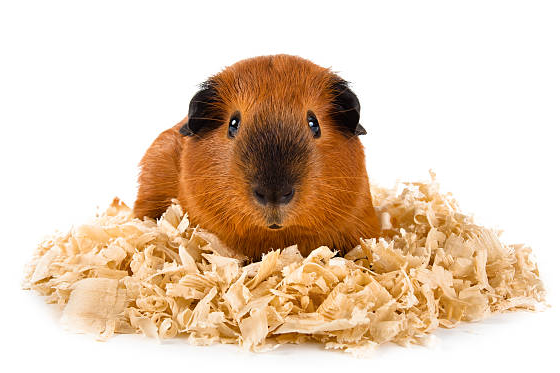
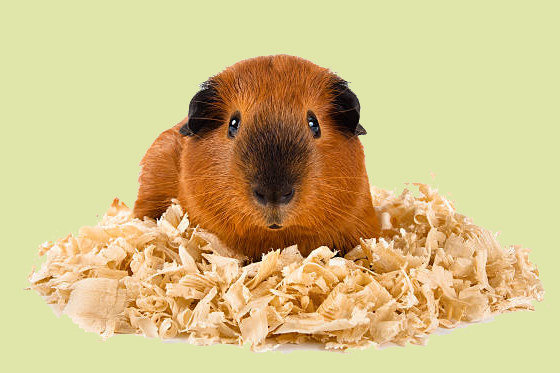
change color scheme

diff --git a/index.html b/index.html
@@ -83,7 +83,7 @@
                                     </div>
                                     <div class="banner_slide swiper-slide">
                                         <img src="./images/Slider/skip1.png" class="slide_img"></img>
-                                        <p class="device_name">Паливна тріска</p>
+                                        <p class="device_name">Технологічна тріска</p>
                                         <div class="slider_bottom">
                                             <img class="slide_bottom" src="./images/bg.slideshow.png" alt="">
                                         </div>
@@ -111,7 +111,7 @@
                                     </div>
                                     <div class="banner_slide swiper-slide">
                                         <img src="./images/Slider/skip3.png" class="slide_img"></img>
-                                        <p class="device_name">Паливна тріска</p>
+                                        <p class="device_name">Тирса</p>
                                         <div class="slider_bottom">
                                             <img class="slide_bottom" src="./images/bg.slideshow.png" alt="">
                                         </div>
@@ -140,7 +140,7 @@
                                     </div>
                                     <div class="slide swiper-slide">
                                         <img src="./images/Slider/skip5.png" class="slide_img"></img>
-                                        <p class="device_name">Паливна тріска</p>
+                                        <p class="device_name">Паливні брикети</p>
                                         <div class="slider_bottom">
                                             <img class="slide_bottom" src="./images/bg.slideshow.png" alt="">
                                         </div>
@@ -154,7 +154,7 @@
                                     </div>
                                     <div class="banner_slide swiper-slide">
                                         <img src="./images/Slider/skip3.png" class="slide_img"></img>
-                                        <p class="device_name">Паливна тріска</p>
+                                        <p class="device_name">Тирса</p>
                                         <div class="slider_bottom">
                                             <img class="slide_bottom" src="./images/bg.slideshow.png" alt="">
                                         </div>
@@ -182,7 +182,7 @@
                                     </div>
                                     <div class="banner_slide swiper-slide">
                                         <img src="./images/Slider/skip3.png" class="slide_img"></img>
-                                        <p class="device_name">Паливна тріска</p>
+                                        <p class="device_name">Тирса</p>
                                         <div class="slider_bottom">
                                             <img class="slide_bottom" src="./images/bg.slideshow.png" alt="">
                                         </div>
@@ -237,6 +237,7 @@
                                     <li class="info_menu_item"><a href="#">Автоматичний пристрій для різки
                                             брикетів</a></li>
                                     <li class="info_menu_item"><a href="#">Ланцюгові столи та вібростоли</a></li>
+                                    <li class="info_menu_item"><a href="#">Транспортери і конвейери</a></li>
                                     <!-- <li class="banner_menu_item"><a href="#">Market Research</a></li>
                                     <li class="banner_menu_item"><a href="#">Custom Training</a></li> -->
                                 </ul>

diff --git a/style.css b/style.css
@@ -12,7 +12,7 @@ body {
     color: #121212;
     margin: 0;
     line-height: 16px;
-    background-image: url('./images/screen2.jpg');
+    background-image: url('./images/screen7.jpg');
     background-repeat: no-repeat;
     background-attachment: fixed;
     background-position: center center;
@@ -21,9 +21,9 @@ body {
 
 /*---------------------header--------------------------*/
 
-.wrapper_inner {
-    background-image: url('./images/bg.overlay.png');
-}
+/*.wrapper_inner {*/
+/*    background-image: url('./images/bg.overlay.png');*/
+/*}*/
 
 .container {
     width: 1132px;
@@ -73,7 +73,8 @@ body {
 }
 
 .logo_text {
-    color: #22a2dd;
+    /*color: #22a2dd;*/
+    color: #e0e6aa;
     text-shadow: 1px 1px #000000;
     text-transform: uppercase;
     font-size: 19px;
@@ -105,10 +106,10 @@ body {
 }
 
 /*--------------------------main---------------------*/
-main {
-    background-image: url('./images/bg.overlay.png');
-    background-repeat: repeat;
-}
+/*main {*/
+/*    background-image: url('./images/bg.overlay.png');*/
+/*    background-repeat: repeat;*/
+/*}*/
 
 /*------------------------nav_menu-------------------------*/
 .main_menu_wrapper {
@@ -135,14 +136,14 @@ main {
 
 .main_menu_item a {
     text-decoration: none;
-    color: #ffffff;
+    color: #e0e6aa;
     font-size: 13px;
     text-transform: uppercase;
     transition: all .5s;
 }
 
 .main_menu_item a:hover {
-    color: #22a2dd;
+    color: rgb(34, 162, 221);
 }
 
 /* -------------------- slider ------------------------- */
@@ -150,7 +151,10 @@ main {
 .slider {
     margin-top: 10px;
 }
-
+.slider_container{
+    background-color: #e0e6aa;
+    padding: 20px;
+}
 .slide_img {
     display: block;
     width: 100%;
@@ -173,7 +177,7 @@ main {
 
 .device_name {
     padding: 5px;
-    background-color: #fff;
+    /*background-color: #fff;*/
     border: 1px solid #333333;
     margin-top: -1px;
     text-align: center;
@@ -182,11 +186,13 @@ main {
 
 /*---------------------info---------------------------------*/
 .info_inner {
-    margin-top: 30px;
+    margin-top: 10px;
     display: grid;
     grid-template-columns: 1fr 2fr;
     justify-content: space-between;
     margin-bottom: 20px;
+    background-color: #e0e6aa;
+    padding: 20px;
 }
 
 .info_left {
